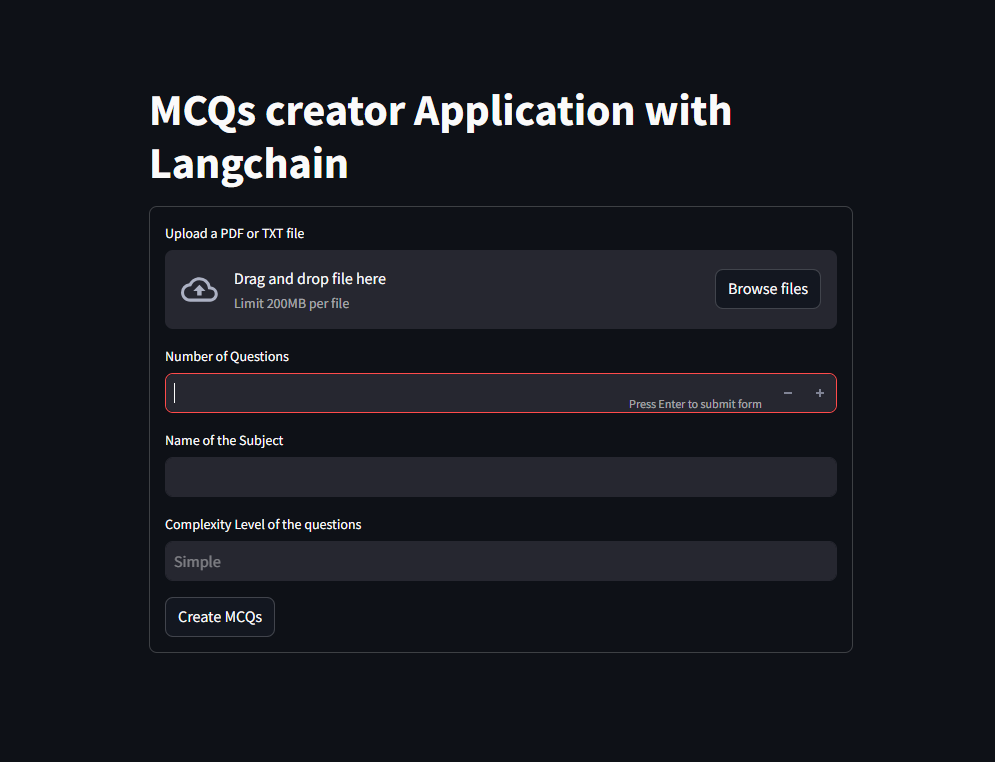
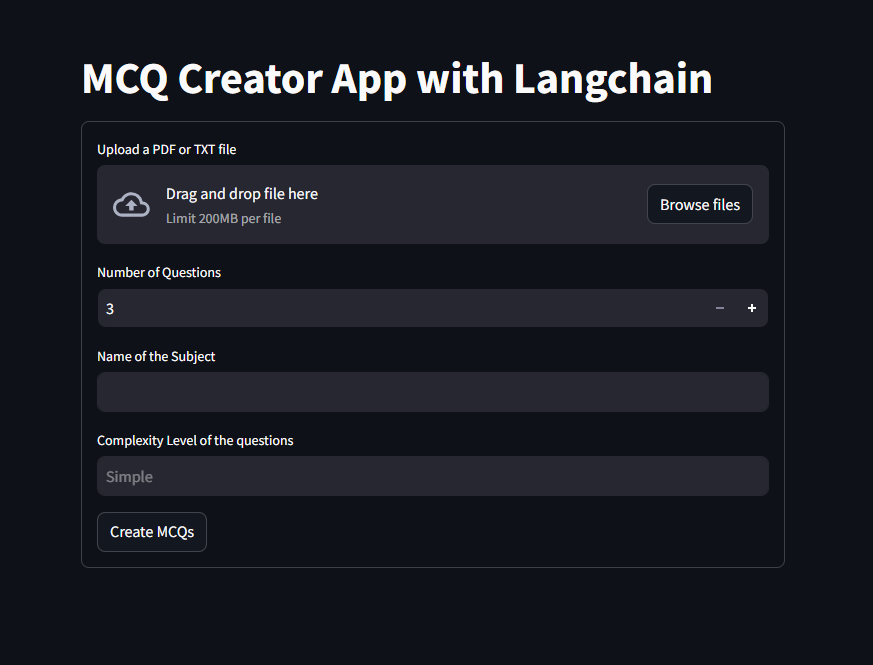
📝 update readme and add screenshots

diff --git a/src/mcqgenerator/streamlit_app.py b/src/mcqgenerator/streamlit_app.py
@@ -20,7 +20,7 @@ def load_stream_lit_app(generate_evaluate_quiz_review):
     logging.log(logging.INFO,"starting streamlit app")
     
     # title for app
-    st.title("MCQs Creator App with Langchain")
+    st.title("MCQ Creator App with Langchain")
 
     with st.form("user_inputs"):
         
